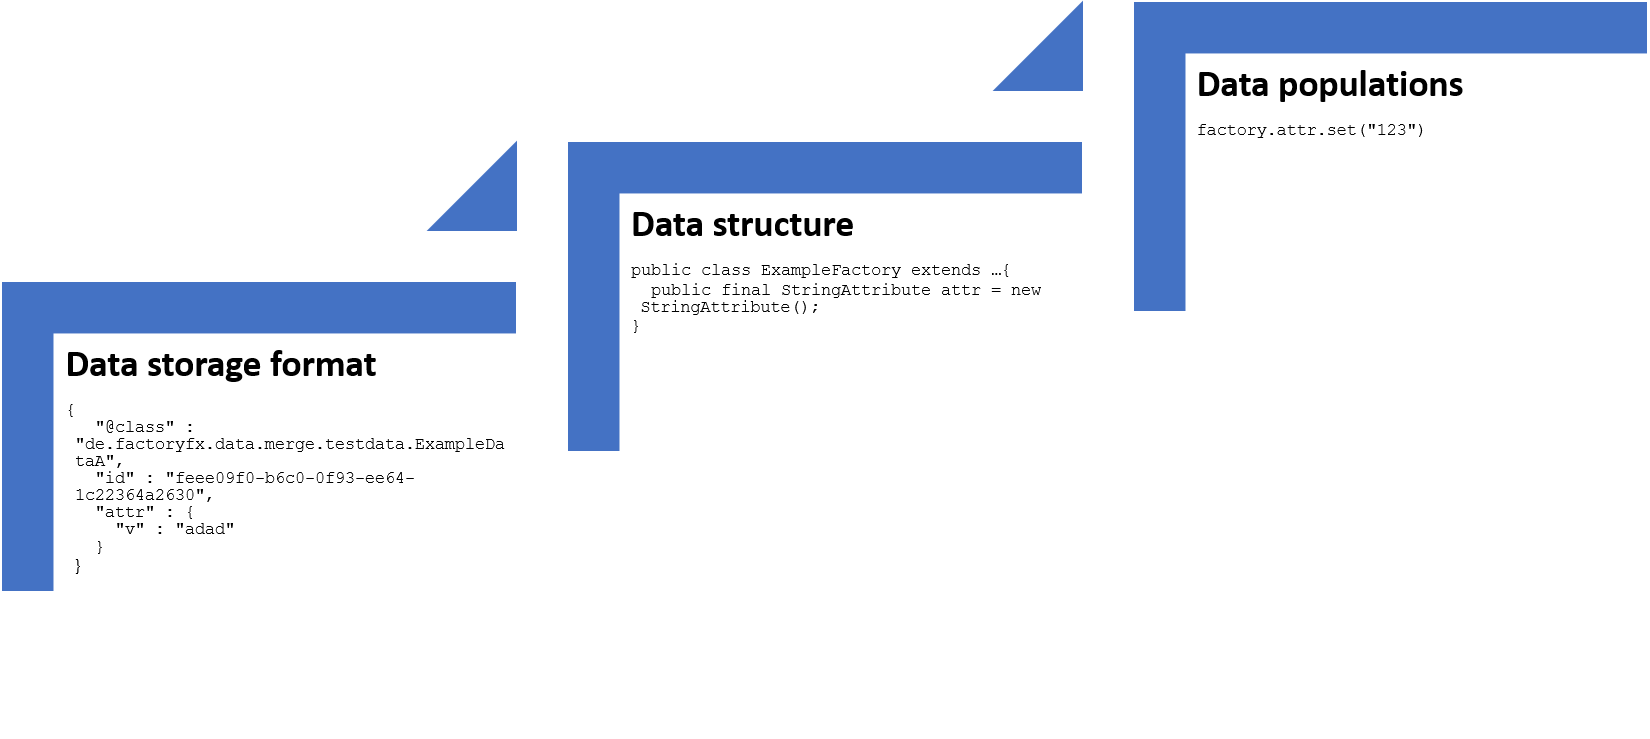
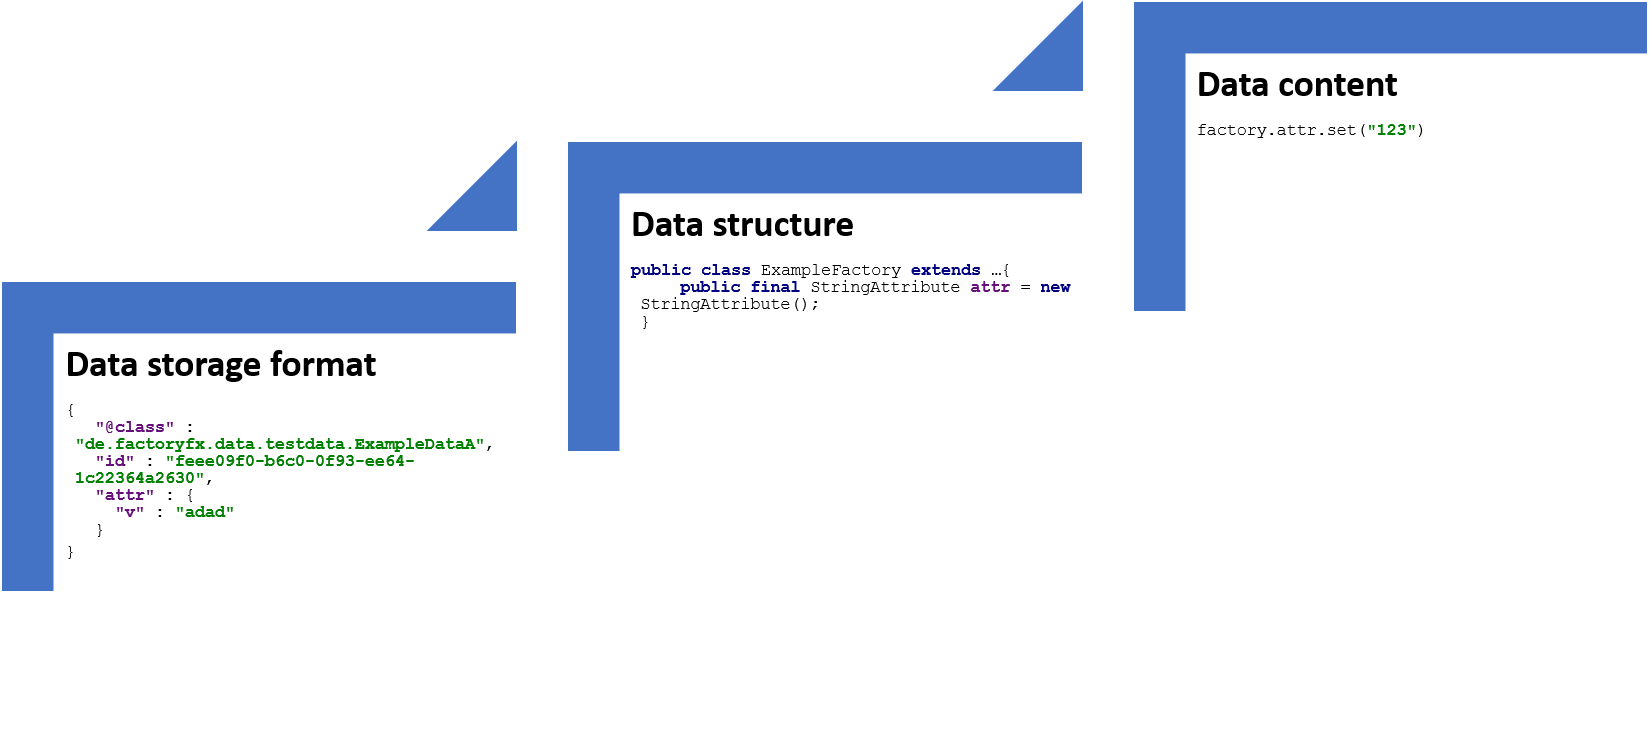
mifration api fixes

diff --git a/docu/src/main/java/de/factoryfx/docu/migration/usecase.md b/docu/src/main/java/de/factoryfx/docu/migration/usecase.md
@@ -5,7 +5,7 @@ To simplify the migration process factory provides a dedicated migration API.
 There are 3 Layers of Migrations
 * **Data storage format**<br> The general format how data and attributes are stored.
 * **Data structure**<br> Structure of the Factories e.g.: attributes name, factory names
-* **Data populations**<br> Data content changes
+* **Data content**<br> Data content changes
 
 ![aoverview](overview.png)
 ## Data storage format migration
@@ -48,8 +48,9 @@ dataMigrationManager.renameAttribute(ExampleFactory.class,"oldAttribute",(rf)->r
 ```
 This adds a rename migration. To support multiple renames the new name is provided with a lambada expression and thereby enables IDE refactoring for the migrations. This also prevents rename cycles.
 
-## Data populations
-There is no framework support for data populations because it's too project specific.
+## Data content
+There is no special framework support for data changes because it's too project specific. 
+You can use the normal microservice update API or use the DataStorage API.
 
 
 ## Special case: One time migration
